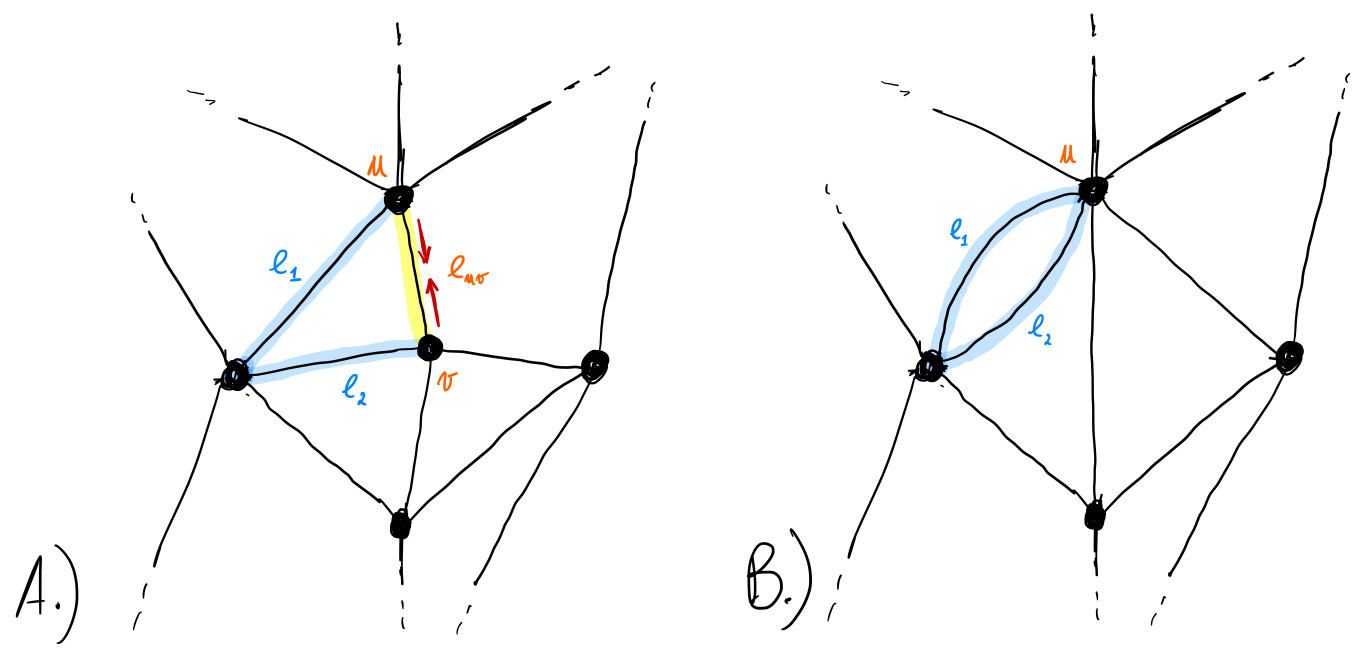
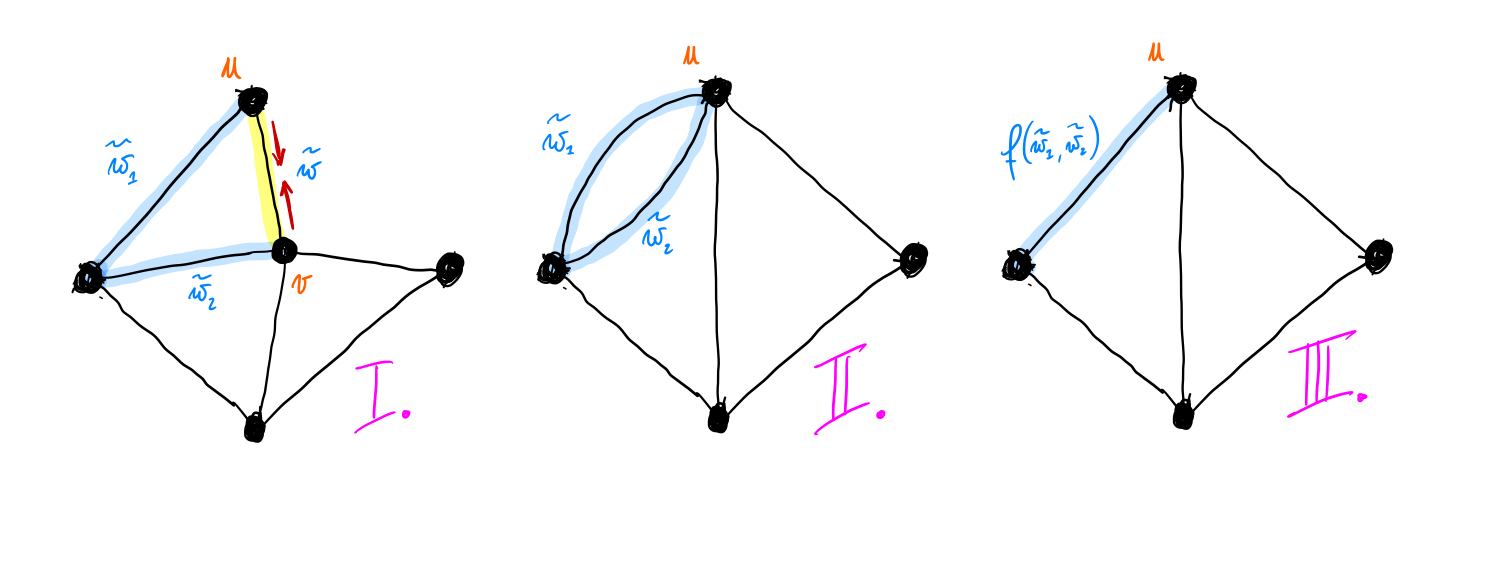
Add more details to exp. sect

diff --git a/latex/agglo_clust_review.tex b/latex/agglo_clust_review.tex
@@ -113,7 +113,7 @@ First line of institution2 address\\
 \centering
 \includegraphics[width=0.50\textwidth,trim=0.in 0.in 0.in 0.in,clip]{./figs/edge_contraction.jpeg}
 \caption{\small 
-Example of edge contraction: the edge $e_{uv}$ is selected from priority queue; after nodes $u$ and $v$ are merged and $e_{uv}$ is deleted, there are two double edges $e_1$ and $e_2$ left in the graph. 
+Example of edge contraction: the edge $e_{uv}$ is selected from priority queue; after nodes $u$ and $v$ are merged and $e_{uv}$ is deleted, there are two double edges $e_1$ and $e_2$ left in the graph.  \TODO{Rotate drawings to optimize space}
 \label{fig:example_non_unique_weights_1}}
 \end{figure}
 
@@ -128,8 +128,8 @@ Example of edge contraction: the edge $e_{uv}$ is selected from priority queue; 
     % \Procedure{SignedGraphEdgeContr}{{\color{blue}bool \emph{addConstraints}}}
       % \State $\mathcal{G}'\gets \mathcal{G}(V,E^+ \cup E^-)$ \Comment{Initialize the contracted graph}
       \State Initialize contracted graph $\mathcal{G}'(V',E')$ from $\mathcal{G}$
-      \State Initialize \texttt{canBeMerged}$[e] \gets$ \texttt{True} $\quad \forall e\in E$
-      \State Sort edges in priority queue (PQ) in desc. order of $|w_e|$ 
+      \State Initialize \texttt{canBeMerged}$[e] \gets$ \texttt{True} $\,\,\, \forall e\in E$
+      \State Sort edges in priority queue (PQ) in desc. order of $|W_e|$ 
       \State
       \While{PQ is \textbf{not} empty}
         \State Pop edge $e_{uv}\in E'$ with highest abs. priority $|\tilde{w}|$
@@ -142,7 +142,8 @@ Example of edge contraction: the edge $e_{uv}$ is selected from priority queue; 
         %   \State Propagate constrained flags of double edges;
           \State Contract $e_{uv}$ in $\mathcal{G}'$
           \For{every new pair of double edges $(e_1,e_2)$}
-            \State Use update rule $f(e_1,e_2)$ (see Table 1) to
+            \State Get priorities $\tilde{w}_1, \tilde{w}_2$ of $e_1,e_2$
+            \State Use update rule $f(\tilde{w}_1,\tilde{w}_2)$ (see Table 1) to 
             \Statex \hspace{\algorithmicindent}\hspace{\algorithmicindent}\hspace{\algorithmicindent}\hspace{\algorithmicindent} update priority of $e_1$
             \State Delete $e_2$ from $\mathcal{G}'$
           \EndFor
@@ -207,24 +208,24 @@ Example of agglomerative clustering on signed graph with sum update rule and usi
     \begin{subtable}[t!]{0.98\textwidth}\centering
         \begin{tabular}{r l || c | c | c}
             % \toprule\toprule
-             & & \textbf{Unsigned graphs}  & \multicolumn{2}{c}{\textbf{Signed graphs}}  \\        
-            \cmidrule(l{.15em}){3-5}
+             & &  \multirow{3}{*}{\textbf{Unsigned graphs}}  & \multicolumn{2}{c}{\textbf{Signed graphs}}  \\        
+            % \cmidrule(l{.15em}){4-5}
             % \cline{4-5}
-            & & \multirow{2}{*}{\thead{Output: hierarchy \\ of clusters}} &  \multicolumn{2}{c}{\thead{Use Cannot-Link-Constraints:}} \\        
+            & & &  \multicolumn{2}{c}{\thead{Use Cannot-Link-Constraints:}} \\        
            
             & & &  \thead{NO} & \thead{YES} \\        
             % \cmidrule[0.3em]{3-5}
             % \midrule[0.15em]
             \midrule\midrule
-            Sum: & $f(e_1,e_2) = W(e_1)+W(e_2)$ & \thead{Hierarchical clustering  \\with Sum Linkage} & \thead{Greedy Additive \\ Edge Contraction \cite{levinkov2017comparative}} & \thead{Greedy Fixation \cite{levinkov2017comparative}} \\ \midrule
+            Sum: & $f(\tilde{w}_1,\tilde{w}_2) = \tilde{w}_1+\tilde{w}_2$ & \thead{Hierarchical clustering  \\with Sum Linkage} & \thead{Greedy Additive \\ Edge Contraction \cite{levinkov2017comparative}} & \thead{Greedy Fixation \cite{levinkov2017comparative}} \\ \midrule
             
-            \makecell[r]{Absolute \\ maximum:} & \makecell[l]{$f(e_1,e_2) =W\Big(\argmax_{\{e_{1},e_{2}\}} \big|W(e) \big| \Big)$}   & \thead{Hierarchical clustering \\with Single Linkage} & \thead{Mutex Watershed \cite{wolf2018mutex}} & \thead{Mutex Watershed \cite{wolf2018mutex}} \\ \midrule
+            \makecell[r]{Absolute \\ maximum:} & \makecell[l]{$f(\tilde{w}_1,\tilde{w}_2) =\argmax_{\tilde{w}\in\{\tilde{w}_{1},\tilde{w}_{2}\}} \big|\tilde{w} \big| $}   & \thead{Hierarchical clustering \\with Single Linkage \cite{lance1967general}} & \thead{Mutex Watershed \cite{wolf2018mutex}} & \thead{Mutex Watershed \cite{wolf2018mutex}} \\ \midrule
 
-            \makecell[r]{Arithmetic \\mean:} & $f(e_1,e_2) = \frac{W(e_1)+W(e_2)}{2} $                                 & \thead{Hierarchical Clustering \\ with Average Linkage \\(UPGMA)} & \thead{Signed Hierarchical Clust. \\ with Average Linkage \\ and threshold at $w=0$} & \thead{\textbf{NEW}}\\ \midrule
+            \makecell[r]{Arithmetic \\mean:} & $f(\tilde{w}_1,\tilde{w}_2) = \mathrm{weightedAvg}\{ \tilde{w}_1, \tilde{w}_2 \} $                                 & \thead{Hierarchical Clustering \\ with Average Linkage \cite{lance1967general} \\(UPGMA)} & \thead{Signed Agglomerative Clust. \\ with Average Linkage \\ (\textbf{NEW})} & \thead{\textbf{NEW}}\\ \midrule
 
-            Maximum: & $f(e_1,e_2) = \max \{ W(e_1), W(e_2) \}  $                                 & \thead{Hierarchical Clustering \\ with Single Linkage} & \thead{Signed Hierarchical Clust. \\ with Single Linkage \\ and threshold at $w=0$} & \thead{\textbf{NEW}}\\ \midrule
+            Maximum: & $f(\tilde{w}_1,\tilde{w}_2) = \max \{ \tilde{w}_1, \tilde{w}_2 \}  $                                 & \thead{Hierarchical Clustering \\ with Single Linkage \cite{lance1967general}} & \thead{Signed Agglomerative Clust. \\ with Single Linkage \\ (\textbf{NEW})} & \thead{\textbf{NEW}}\\ \midrule
 
-            Minimum:& $f(e_1,e_2) = \min \{ W(e_1), W(e_2) \}  $                                 & \thead{Hierarchical Clustering \\ with Complete Linkage}  & \thead{Signed Hierarchical Clust. \\ with Complete Linkage \\ and threshold at $w=0$} & \thead{\textbf{NEW}}
+            Minimum:& $f(\tilde{w}_1,\tilde{w}_2) = \min \{ \tilde{w}_1, \tilde{w}_2 \}  $                                 & \thead{Hierarchical Clustering \\ with Complete Linkage \cite{lance1967general}}  & \thead{Signed Agglomerative Clust. \\ with Complete Linkage \\ (\textbf{NEW})} & \thead{\textbf{NEW}}
 
 
 
@@ -245,7 +246,7 @@ Example of agglomerative clustering on signed graph with sum update rule and usi
 
 
 % \section{Algorithm}
-\section{Agglomerative Clustering}
+\section{Generic Agglomerative Clustering Framework}
 \begin{itemize}
 \item Define graph formalism and clustering $\Pi$
 \item Description and pseudo-code
@@ -256,6 +257,7 @@ Example of agglomerative clustering on signed graph with sum update rule and usi
 \item Greedy Fixation \cite{levinkov2017comparative}, 
 \item Hierarchical Agglomerative Clustering with single, complete, average (UPGMA) linkage criteria
 \end{itemize}
+\item comment about the fact that sum is not an ultra-metric (say better)
 \item Easily generalizable for: learned linkage criteria \cite{nunez2013machine}, something depending on node size \cite{felzenszwalb2004efficient}, quantiles, weighted average (WPGMA) and weighted sum
 
 \item Comment about must-not-link relations: they give high priority to the most confident repulsive edges 
@@ -263,11 +265,19 @@ Example of agglomerative clustering on signed graph with sum update rule and usi
 \item comment about complexity (depends on the linkage criteria) and how dense is the graph (check PQ update)
 \end{itemize}
 
+\section{Experimental setup}
+\begin{itemize}
+\item Define long-range grid graph
+\item Introduce "Poisson" random graph with a given probability of long-range connections
+\item Define predictions of the CNN (pseudo probabilities)
+\item Define possible mappings to signed costs
+\item Comment about the short- and long-range distinction in the MWS paper: it does not work that well in practice (applying post-processing to remove small segments is easier and better solution)
+\end{itemize}
 
 \section{Experiments}
+\subsection{Tested datasets}
 \begin{itemize}
-\item define pixel grid graph and long range connections
-\item probability of long-range connections
+\item Define offset patterns, trained networks (loss, etc...) and setups on cremi and cityscapes
 \end{itemize}
 
 
@@ -283,14 +293,21 @@ Example of agglomerative clustering on signed graph with sum update rule and usi
 
 
 
-\subsection{Qualitative comparison}
+\subsection{First set of experiments}
 \begin{itemize}
-\item find good way to represent agglomeration order
-\item can we display the must-not-link edges...?
+  \item compare different choices of signed-cost-mappings
+  \item rule out single and complete linkage
+  \item qualitative comparison: find good way to represent agglomeration order (can we display the must-not-link edges...?)
 \end{itemize}
 \subsection{Noise experiments}
+\begin{itemize}
+  \item Define noise and give explanation
+  \item 
+  \item 
+\end{itemize}
 
-\subsection{Comparison on CREMI and cityscapes}
+\subsection{Scores on CREMI and cityscapes}
+
 
 \section{Conclusions}
 

diff --git a/latex/chapters/intro.tex b/latex/chapters/intro.tex
@@ -1,6 +1,8 @@
 % !TEX root = ../agglo_clust_review.tex
 
 \section{Introduction}
+On possible selling story could be: currently many of the successful proposal-free instance segmentation methods rely on a final clustering step on a grid-graph with both short and long-range connections. So it is worth to study this problem in more details. 
+
 
 \begin{itemize}
 \item \textbf{General intro about CNN:} big success in pixel-level image understanding tasks: boundary detection \cite{arbelaez2011contour,xie2015holistically,maninis2018convolutional}, semantic segmentation \cite{long2015fully,chen2018deeplab,kong2018recurrent}, optical flow \cite{weinzaepfel2013deepflow,dosovitskiy2015flownet}, pose estimation \cite{wei2016convolutional,cao2017realtime}...
@@ -20,13 +22,13 @@
 \item Among successful \textbf{proposal-free methods} there are: predict pixel embedding vectors \cite{kong2018recurrent,fathi2017semantic,newell2017associative,de2017semantic}; predict short- and long-range affinities \cite{liu2018affinity,wolf2018mutex,xie2015holistically} (more details in related work)
 
 \item In both approaches we can obtain the final segmentation by using a \textbf{graph clustering algorithm}
-\item Recent work (\cite{wolf2018mutex}, more?) shows that it is better to use \textbf{repulsion and attraction} (directly predict it with the classifier, no need to define seeds or to fix a threshold given an hierarchy of clusters)
+\item Recent work (\cite{wolf2018mutex}, more...) shows that it is better to use \textbf{repulsion and attraction} (directly predict it with the classifier, no need to define seeds or to fix a threshold given an hierarchy of clusters)
 \item solving correlation clustering problem (multicut) is too expensive for this application (even using recently proposed heuristics)
 \item our contributions:
 \begin{itemize}
-\item we propose a unified and simple formalization of Agglomerative Clustering and show how many of the recently proposed methods can be seen as special cases
+\item we propose a unified and simple formalization of Agglomerative Clustering and show how many of the recently proposed methods can be seen as special cases (focusing in particular on signed graphs) (\textbf{review and comparison paper})
 \item we propose several new clustering algorithms, among which one proved to be robust in our experiments (average linkage with must-not-link-edges)
-\item we compare different types of agglomeration clustering on a pixel grid graph with short and long-range connections, focusing on aspects like efficieny, robustness (and energy) 
+\item we compare different types of agglomeration clustering on a pixel grid graph with short and long-range connections, focusing on aspects like efficieny, robustness (and MC energy) 
 
 \end{itemize}
 \item on other datasets (connectomics) many methods are based on multi-step pipelines first predicting superpixels
